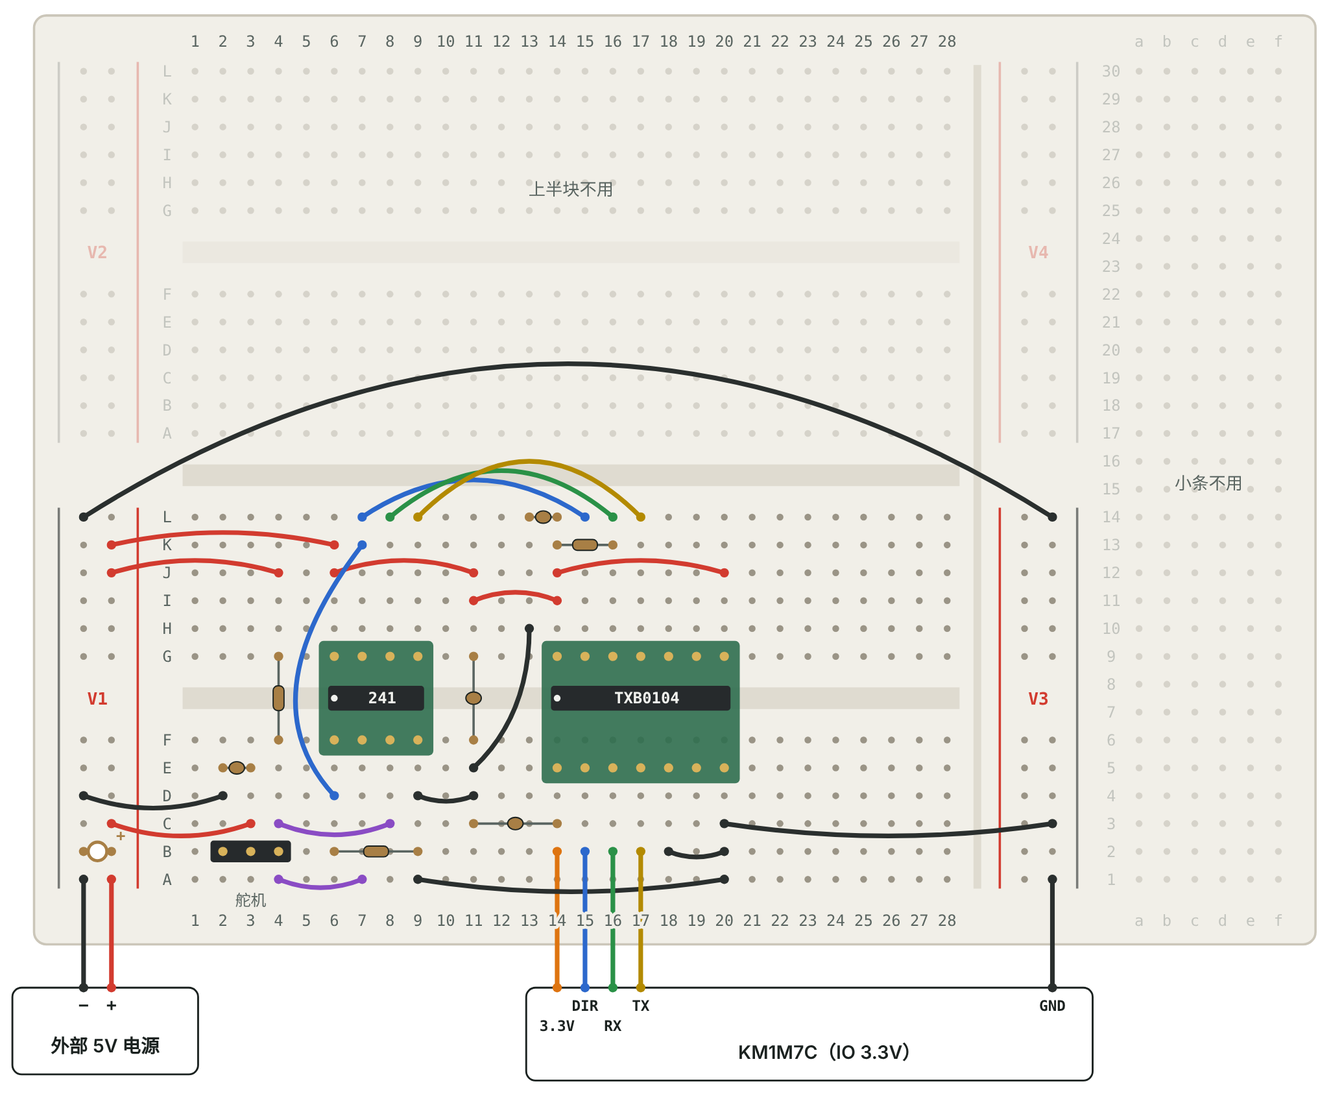
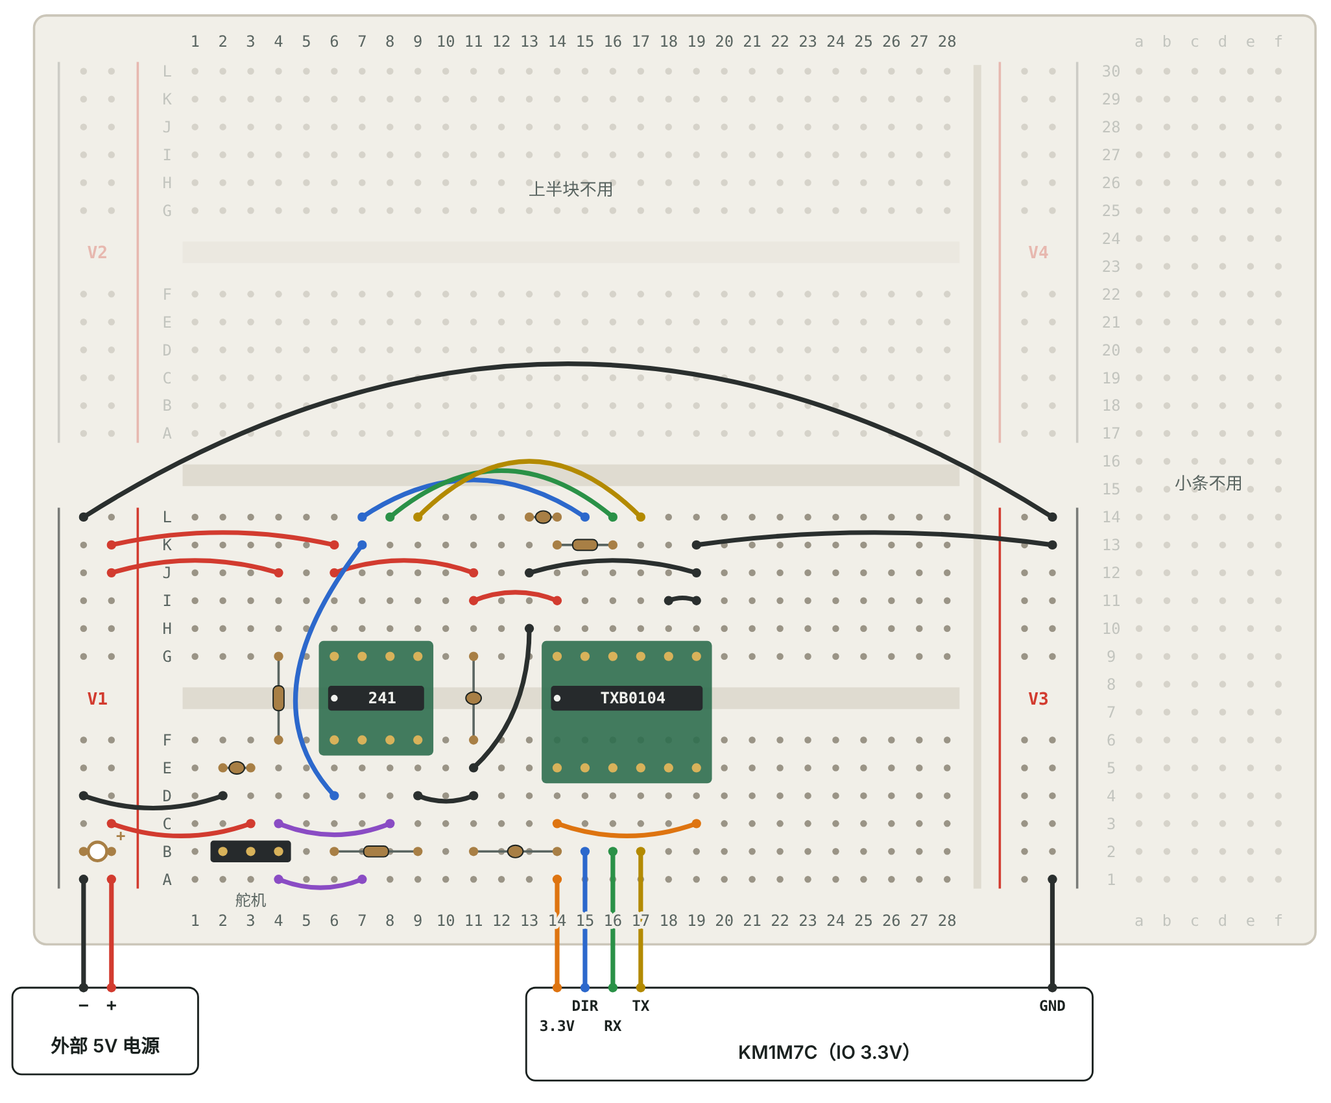
Rewire the TXB0104 as a 6-pin-per-row module
The level shifter is a breakout with rows VA A1 A2 A3 A4 OE and
VB B1 B2 B3 B4 GND (no NC pins). It now sits in columns 14-19 with VA/VB
in column 14, so channels 1-3 keep their columns. OE is tied to VA
(3.3V) in the lower row, module GND (upper row) goes to the GND hub and
V3-, unused B4 is grounded and A4 is left open. Schematic, column map,
BOM and the wiring checker's reference netlist are updated to match.

Claude-Session: https://claude.ai/code/session_01WiTXKFSppvefth2JxyFg7v

Changed region(s): [[0.3119, 0.7171, 0.7797, 0.8106], [0.4055, 0.4676, 0.7797, 0.5612], [0.4366, 0.5612, 0.5614, 0.7171]]

diff --git a/docs/breadboard/xl330_breadboard.html b/docs/breadboard/xl330_breadboard.html
@@ -159,7 +159,7 @@ ol.steps{margin:0;padding-left:1.4em;display:grid;gap:8px;max-width:72ch}
       <li><b>V1 = 外部 5V 和 GND，V3 − = MCU 的 GND（V3 + 不用）。</b>每条电源轨里，靠里（红线）那列是 +，靠外（黑线）那列是 −。先贴胶带标注。MCU 的 3.3V 直接插到第 14 列。</li>
       <li>MCU 板的 5V 引脚空着不接。同一条电源线上只能有一个电源。</li>
       <li>所有 GND 都要连在一起：外部电源的地和 MCU 的地靠 P1 那根长线接通。</li>
-      <li>两块转接板的 1 脚（圆点）都朝左下：在槽下方（A–F 一侧）、靠 V1 那头。241 的两排针插 G 行和 F 行；TXB0104 的转接板宽一些，两排针插 G 行和 E 行。E 和 F 同属槽下方那一组，电气上一样。</li>
+      <li>241 转接板的 1 脚（圆点）朝左下：在槽下方（A–F 一侧）、靠 V1 那头。241 的两排针插 G 行和 F 行；TXB0104 是每排 6 针的成品模块：VA…OE 那排插 E 行，VB…GND 那排插 G 行，VA、VB 在第 14 列（靠 V1 那头）。E 和 F 同属槽下方那一组，电气上一样。</li>
     </ol>
   </section>
 
@@ -188,18 +188,18 @@ ol.steps{margin:0;padding-left:1.4em;display:grid;gap:8px;max-width:72ch}
         <line class="ln s-dir" x1="280" y1="220" x2="400" y2="220"/><text class="t-dir" x="340" y="212" text-anchor="middle">DIR →</text>
         <rect class="bx" x="400" y="80" width="180" height="215" rx="6"/>
         <text class="ttl" x="490" y="104" text-anchor="middle">TXB0104</text>
-        <text x="432" y="122" text-anchor="middle">1 VCCA</text>
-        <text x="550" y="122" text-anchor="middle">VCCB 14</text>
-        <text x="408" y="144">3 A2</text><text x="408" y="184">4 A3</text><text x="408" y="224">2 A1</text><text x="408" y="259">5 A4</text>
-        <text x="572" y="144" text-anchor="end">B2 12</text><text x="572" y="184" text-anchor="end">B3 11</text><text x="572" y="224" text-anchor="end">B1 13</text><text x="572" y="259" text-anchor="end">B4 10</text>
-        <text x="432" y="286" text-anchor="middle">7 GND</text>
-        <text x="550" y="286" text-anchor="middle">OE 8</text>
+        <text x="432" y="122" text-anchor="middle">VA</text>
+        <text x="550" y="122" text-anchor="middle">VB</text>
+        <text x="408" y="144">A2</text><text x="408" y="184">A3</text><text x="408" y="224">A1</text><text x="408" y="259">A4</text>
+        <text x="572" y="144" text-anchor="end">B2</text><text x="572" y="184" text-anchor="end">B3</text><text x="572" y="224" text-anchor="end">B1</text><text x="572" y="259" text-anchor="end">B4</text>
+        <text x="432" y="286" text-anchor="middle">OE</text>
+        <text x="550" y="286" text-anchor="middle">GND</text>
         <line class="ln s-33" x1="430" y1="80" x2="430" y2="62"/><text class="t-33" x="430" y="55" text-anchor="middle">+3.3V</text>
         <line class="ln s-5" x1="550" y1="80" x2="550" y2="62"/><text class="t-5" x="550" y="55" text-anchor="middle">+5V</text>
-        <line class="ln s-g" x1="430" y1="295" x2="430" y2="313"/><text class="t-g" x="430" y="329" text-anchor="middle">GND</text>
-        <line class="ln s-5" x1="550" y1="295" x2="550" y2="313"/><text class="t-5" x="550" y="329" text-anchor="middle">+5V</text>
-        <line class="ln s-g" x1="386" y1="255" x2="400" y2="255"/><text class="t-g" x="381" y="259" text-anchor="end">GND</text>
-        <line class="ln s-mut" x1="580" y1="255" x2="600" y2="255"/><text x="604" y="259">空</text>
+        <line class="ln s-33" x1="430" y1="295" x2="430" y2="313"/><text class="t-33" x="430" y="329" text-anchor="middle">+3.3V</text>
+        <line class="ln s-g" x1="550" y1="295" x2="550" y2="313"/><text class="t-g" x="550" y="329" text-anchor="middle">GND</text>
+        <line class="ln s-mut" x1="386" y1="255" x2="400" y2="255"/><text x="381" y="259" text-anchor="end">空</text>
+        <line class="ln s-g" x1="580" y1="255" x2="600" y2="255"/><text class="t-g" x="604" y="259">GND</text>
         <line class="ln s-rx" x1="580" y1="140" x2="720" y2="140"/><text class="t-rx" x="692" y="132" text-anchor="middle">← RX</text>
         <line class="ln s-tx" x1="580" y1="180" x2="720" y2="180"/><text class="t-tx" x="650" y="172" text-anchor="middle">TX →</text>
         <line class="ln s-dir" x1="580" y1="220" x2="700" y2="220"/><text class="t-dir" x="615" y="212" text-anchor="middle">DIR →</text>
@@ -284,14 +284,13 @@ ol.steps{margin:0;padding-left:1.4em;display:grid;gap:8px;max-width:72ch}
         <tr><td>9</td><td>5 2A · TX</td><td>4 GND</td></tr>
         <tr class="grp"><td colspan="3">中转（第 11 列）</td></tr>
         <tr><td>11</td><td>5V</td><td>GND</td></tr>
-        <tr class="grp"><td colspan="3">TXB0104（第 14–20 列，针插 G 行和 E 行）</td></tr>
-        <tr><td>14</td><td>14 VCCB · 5V</td><td>1 VCCA · 3.3V（MCU 直接接）</td></tr>
-        <tr><td>15</td><td>13 B1 · DIR（接 241）</td><td>2 A1 · DIR（接 MCU）</td></tr>
-        <tr><td>16</td><td>12 B2 · RX（接 241）</td><td>3 A2 · RX（接 MCU）</td></tr>
-        <tr><td>17</td><td>11 B3 · TX（接 241）</td><td>4 A3 · TX（接 MCU）</td></tr>
-        <tr><td>18</td><td>10 B4 · 不接</td><td>5 A4 · 接 GND</td></tr>
-        <tr><td>19</td><td>9 NC</td><td>6 NC</td></tr>
-        <tr><td>20</td><td>8 OE · 接 5V</td><td>7 GND</td></tr>
+        <tr class="grp"><td colspan="3">TXB0104 模块（第 14–19 列，针插 G 行和 E 行）</td></tr>
+        <tr><td>14</td><td>VB · 5V</td><td>VA · 3.3V（MCU 直接接）</td></tr>
+        <tr><td>15</td><td>B1 · DIR（接 241）</td><td>A1 · DIR（接 MCU）</td></tr>
+        <tr><td>16</td><td>B2 · RX（接 241）</td><td>A2 · RX（接 MCU）</td></tr>
+        <tr><td>17</td><td>B3 · TX（接 241）</td><td>A3 · TX（接 MCU）</td></tr>
+        <tr><td>18</td><td>B4 · 接 GND</td><td>A4 · 不接</td></tr>
+        <tr><td>19</td><td>GND</td><td>OE · 接 VA（3.3V）</td></tr>
       </tbody>
     </table></div>
   </section>
@@ -323,7 +322,7 @@ ol.steps{margin:0;padding-left:1.4em;display:grid;gap:8px;max-width:72ch}
       <ol class="steps">
         <li>接完第 1 组、插芯片之前：万用表打到蜂鸣档，测 V1 + 对 V1 −，不能响。再测 V1 + 最上面和最下面两个孔，应该响，说明整条是通的；V1 −、V3 − 也一样测。</li>
         <li>外部电源通电，测 V1 + 对 V1 − 约 5V；插上 MCU 的 USB，测第 14 列槽下方对 V3 − 约 3.3V。确认后都断电。</li>
-        <li>接完芯片供电后再上电：TXB0104 第 1 脚约 3.3V、第 14 脚约 5V，74LVC2G241 第 8 脚约 5V。</li>
+        <li>接完芯片供电后再上电：TXB0104 模块的 VA 约 3.3V、VB 约 5V，74LVC2G241 第 8 脚约 5V。</li>
         <li>舵机线先别插，测第 3 列对第 2 列约 5V（舵机 VDD 对 GND）。</li>
         <li>上电顺序：先插 MCU 的 USB，再开外部 5V；断电顺序相反。顺序反了也不会损坏芯片，TXB0104 有一侧没电时输出会变成高阻。</li>
         <li>舵机上电时 LED 会闪一下，说明供电正常。</li>
@@ -333,7 +332,7 @@ ol.steps{margin:0;padding-left:1.4em;display:grid;gap:8px;max-width:72ch}
       <h2>物料清单</h2>
       <ul class="bom">
         <li><b>面包板（照片这款）</b><span>×1</span></li>
-        <li><b>TXB0104 + 14 脚转 DIP 转接板</b><span>×1</span></li>
+        <li><b>TXB0104 模块（每排 6 针）</b><span>×1</span></li>
         <li><b>SN74LVC2G241 + 8 脚转接板</b><span>×1</span></li>
         <li><b>电阻 10kΩ</b><span>×1</span></li>
         <li><b>电阻 100kΩ</b><span>×2</span></li>
@@ -425,16 +424,16 @@ ol.steps{margin:0;padding-left:1.4em;display:grid;gap:8px;max-width:72ch}
       ['C2','c','11G','11F','part','跨过槽，接在 5V 和 GND 中转之间的去耦电容','0.1µF'],
       ['R3','r','6B','9B','part','DIR 下拉（1OE ↔ GND）','100kΩ']]},
     {t:'TXB0104 供电',items:[
-      ['K1','k','插入 TXB0104 转接板','','','第 14–20 列，这块转接板宽一些：一排针插 G 行、一排插 E 行，1 脚（圆点）在 14E'],
-      ['P7','w','11I','14I','5','14 脚 VCCB = 5V'],
-      ['P8','w','14J','20J','5','8 脚 OE 接 5V，芯片一直工作'],
-      ['M1','w','MCU:3V3','14B','33','1 脚 VCCA = 3.3V，MCU 的 3.3V 直接插到这里','',{b:0}],
-      ['C1','c','11C','14C','part','VCCA 去耦电容（3.3V ↔ GND）','0.1µF'],
+      ['K1','k','插入 TXB0104 模块','','','第 14–19 列：VA A1 A2 A3 A4 OE 那排插 E 行，VB B1 B2 B3 B4 GND 那排插 G 行，VA 在 14E、VB 在 14G'],
+      ['P7','w','11I','14I','5','VB = 5V'],
+      ['P8','w','14C','19C','33','OE 接 VA（3.3V），芯片一直工作'],
+      ['M1','w','MCU:3V3','14A','33','VA = 3.3V，MCU 的 3.3V 直接插到这里','',{b:0}],
+      ['C1','c','11B','14B','part','VA 去耦电容（3.3V ↔ GND）','0.1µF'],
       ['P14','w','11E','13H','g','把 GND 引到第 13 列槽上方，给 C6 用','',{ctrl:[446,476]}],
-      ['C6','c','13L','14L','part','VCCB 去耦电容（5V ↔ GND），紧挨着 14 脚','0.1µF'],
-      ['P10','w','20C','V3N:C','g','7 脚 GND 接 V3 −'],
-      ['P11','w','9A','20A','g','241 的 GND 和 TXB0104 的 GND 连通'],
-      ['P12','w','18B','20B','g','5 脚 A4 不用，接 GND，不要悬空']]},
+      ['C6','c','13L','14L','part','VB 去耦电容（5V ↔ GND），紧挨着 VB','0.1µF'],
+      ['P10','w','19K','V3N:K','g','模块 GND 接 V3 −（MCU 的地）'],
+      ['P11','w','13J','19J','g','GND 中转连到模块的 GND'],
+      ['P12','w','18I','19I','g','B4 不用，接 GND；A4 空着']]},
     {t:'MCU ↔ TXB0104（3.3V 一侧，槽下方）',items:[
       ['S1','w','MCU:DIR','15B','dir','2 脚 A1，方向控制 DIR','',{b:0}],
       ['S2','w','16B','MCU:RX','rx','3 脚 A2，接收','',{b:0}],
@@ -444,7 +443,7 @@ ol.steps{margin:0;padding-left:1.4em;display:grid;gap:8px;max-width:72ch}
       ['S5','w','8L','16L','rx','241 的 1Y（6 脚）→ B2（12 脚），接收','',{ctrl:[(cx(8)+cx(16))/2,288]}],
       ['S6','w','17L','9L','tx','B3（11 脚）→ 241 的 2A（5 脚），发送','',{ctrl:[(cx(17)+cx(9))/2,276]}],
       ['S7','w','7K','6D','dir','2OE（7 脚）→ 1OE（1 脚）。2OE 高电平有效、1OE 低电平有效，所以 DIR = 1 发送，DIR = 0 接收','',{ctrl:[262,GROOVE]}],
-      ['R2','r','14K','16K','part','RX 上拉到 5V（VCCB ↔ B2）','100kΩ']]},
+      ['R2','r','14K','16K','part','RX 上拉到 5V（VB ↔ B2）','100kΩ']]},
     {t:'DATA 线',items:[
       ['P13','w','V1P:J','4J','5','把 5V 引到第 4 列槽上方，给 R1 用'],
       ['R1','r','4G','4F','part','跨过槽，DATA 上拉到 5V','10kΩ'],
@@ -519,7 +518,7 @@ ol.steps{margin:0;padding-left:1.4em;display:grid;gap:8px;max-width:72ch}
       return s;
     }
     h+=chip(6,4,'241',LROW.F);
-    h+=chip(14,7,'TXB0104',LROW.E);
+    h+=chip(14,6,'TXB0104',LROW.E);
     h+='<rect class="chipbody" x="'+(cx(2)-8)+'" y="557" width="'+(2*P+16)+'" height="14" rx="2"/>';
     for(let c=2;c<=4;c++) h+='<circle class="pin" cx="'+cx(c)+'" cy="564" r="3"/>';
     h+='<text x="'+cx(3)+'" y="599" text-anchor="middle">舵机</text>';

diff --git a/tools/check_wiring.py b/tools/check_wiring.py
@@ -31,15 +31,15 @@ PAGE = Path(__file__).resolve().parent.parent / "docs" / "breadboard" / "xl330_b
 # ---------------------------------------------------------------------------
 # 面包板上的固定摆放（和清单里的 K1、K2、K3 对应）
 # ---------------------------------------------------------------------------
-TXB_COL, TXB_UPPER_ROW, TXB_LOWER_ROW = 14, "G", "E"   # 第 14–20 列，针插 G 行和 E 行
+TXB_COL, TXB_UPPER_ROW, TXB_LOWER_ROW = 14, "G", "E"   # 模块，第 14–19 列，针插 G 行和 E 行
 G241_COL, G241_UPPER_ROW, G241_LOWER_ROW = 6, "G", "F"  # 第 6–9 列，针插 G 行和 F 行
 HEADER = {"2B": "XL330.1", "3B": "XL330.2", "4B": "XL330.3"}  # 舵机 1 号 GND，2 号 VDD，3 号 DATA
 
 # 转接板边缘可能盖住的孔：芯片所在列里，紧挨着针脚那一行（槽外侧）
 def keepout_holes():
     k = set()
-    for c in range(TXB_COL, TXB_COL + 7):
-        k |= {f"{c}H", f"{c}D", f"{c}F"}       # F 在两排针中间，被转接板盖住
+    for c in range(TXB_COL, TXB_COL + 6):
+        k |= {f"{c}H", f"{c}D", f"{c}F"}       # F 在两排针中间，被模块盖住
     for c in range(G241_COL, G241_COL + 4):
         k |= {f"{c}H", f"{c}E"}
     return k
@@ -49,18 +49,18 @@ def keepout_holes():
 # 引脚写法：芯片.脚号，MCU.名字，EXT.+/-，XL330.脚号
 # ---------------------------------------------------------------------------
 REFERENCE = {
-    "5V":      {"EXT.+", "TXB.14", "TXB.8", "241.8", "XL330.2"},
-    "3V3":     {"MCU.3V3", "TXB.1"},
-    "GND":     {"EXT.-", "MCU.GND", "TXB.7", "TXB.5", "241.4", "XL330.1"},
-    "DIR_3V3": {"MCU.DIR", "TXB.2"},
-    "RX_3V3":  {"MCU.RX", "TXB.3"},
-    "TX_3V3":  {"MCU.TX", "TXB.4"},
-    "DIR_5V":  {"TXB.13", "241.7", "241.1"},
-    "RX_5V":   {"TXB.12", "241.6"},
-    "TX_5V":   {"TXB.11", "241.5"},
+    "5V":      {"EXT.+", "TXB.VB", "241.8", "XL330.2"},
+    "3V3":     {"MCU.3V3", "TXB.VA", "TXB.OE"},
+    "GND":     {"EXT.-", "MCU.GND", "TXB.GND", "TXB.B4", "241.4", "XL330.1"},
+    "DIR_3V3": {"MCU.DIR", "TXB.A1"},
+    "RX_3V3":  {"MCU.RX", "TXB.A2"},
+    "TX_3V3":  {"MCU.TX", "TXB.A3"},
+    "DIR_5V":  {"TXB.B1", "241.7", "241.1"},
+    "RX_5V":   {"TXB.B2", "241.6"},
+    "TX_5V":   {"TXB.B3", "241.5"},
     "DATA":    {"241.2", "241.3", "XL330.3"},
 }
-UNUSED = {"TXB.10", "TXB.9", "TXB.6"}          # B4、两个 NC：不能接任何东西
+UNUSED = {"TXB.A4"}                            # 不用的 A4：不能接任何东西
 PARTS = {                                       # 两只脚跨在哪两个网络上
     "R1": ("DATA", "5V"),
     "R2": ("RX_5V", "5V"),
@@ -137,9 +137,11 @@ def node_of(pos, errors):
 def chip_pins():
     """芯片和排针的每只脚插在哪个孔。"""
     pins = {}
-    for i in range(7):                       # TXB0104：1–7 在下排从左到右，8–14 在上排从右到左
-        pins[f"TXB.{1 + i}"] = f"{TXB_COL + i}{TXB_LOWER_ROW}"
-        pins[f"TXB.{14 - i}"] = f"{TXB_COL + i}{TXB_UPPER_ROW}"
+    lower = ["VA", "A1", "A2", "A3", "A4", "OE"]   # TXB0104 模块：两排从左到右
+    upper = ["VB", "B1", "B2", "B3", "B4", "GND"]
+    for i in range(6):
+        pins[f"TXB.{lower[i]}"] = f"{TXB_COL + i}{TXB_LOWER_ROW}"
+        pins[f"TXB.{upper[i]}"] = f"{TXB_COL + i}{TXB_UPPER_ROW}"
     for i in range(4):                       # 74LVC2G241：1–4 下排，5–8 上排
         pins[f"241.{1 + i}"] = f"{G241_COL + i}{G241_LOWER_ROW}"
         pins[f"241.{8 - i}"] = f"{G241_COL + i}{G241_UPPER_ROW}"
@@ -173,7 +175,7 @@ def check(stages, verbose=True):
 
     # K 步骤里写的列号要和这里的摆放一致
     ktext = {it[0]: it[2] + " " + it[5] for it in items_of(stages) if it[1] == "k"}
-    expect = {"K1": f"第 {TXB_COL}–{TXB_COL + 6} 列", "K2": f"第 {G241_COL}–{G241_COL + 3} 列",
+    expect = {"K1": f"第 {TXB_COL}–{TXB_COL + 5} 列", "K2": f"第 {G241_COL}–{G241_COL + 3} 列",
               "K3": "2B、3B、4B"}
     for k, frag in expect.items():
         if frag not in ktext.get(k, ""):
@@ -281,9 +283,9 @@ def selftest():
         ("R1 插错一列（一头悬空）", lambda it: it[0] == "R1" and not it.__setitem__(2, "2G")),
         ("电解电容 C4 正负接反", lambda it: it[0] == "C4" and not (it.__setitem__(2, "V1N:B"), it.__setitem__(3, "V1P:B"))),
         ("两样东西插进同一个孔", lambda it: it[0] == "P12" and not it.__setitem__(2, "16B")),
-        ("5V 和 3.3V 短路（3.3V 插到了槽上方）", lambda it: it[0] == "M1" and not it.__setitem__(3, "14L")),
-        ("A4 的接地线插到了 NC 那一列", lambda it: it[0] == "P12" and not it.__setitem__(2, "19B")),
-        ("OE 没接 5V（悬空）", lambda it: it[0] == "P8" and not it.__setitem__(3, "22J")),
+        ("5V 和 3.3V 短路（3.3V 插到了槽上方）", lambda it: it[0] == "M1" and not it.__setitem__(3, "14J")),
+        ("B4 的接地线插到了 A4 那一列", lambda it: it[0] == "P12" and not it.__setitem__(2, "18B")),
+        ("OE 没接上（悬空）", lambda it: it[0] == "P8" and not it.__setitem__(3, "22C")),
     ]
     failed = 0
     for name, fn in cases:

diff --git a/docs/breadboard/README.md b/docs/breadboard/README.md
@@ -2,7 +2,7 @@
 
 信号链：**PC —USB— KM1M7C（3.3V IO）↔ TXB0104（3.3V ↔ 5V）↔ 74LVC2G241（5V）↔ XL330**
 
-- TXB0104 把 MCU 的 3.3V 信号转成 5V：A 侧（VCCA = 3.3V）接 MCU，B 侧（VCCB = 5V）接 241。
+- TXB0104 把 MCU 的 3.3V 信号转成 5V：A 侧（VA = 3.3V）接 MCU，B 侧（VB = 5V）接 241。
 - 74LVC2G241 把 TX、RX 合成一根 DATA 线。DIR = 1 发送（2Y 打开），DIR = 0 接收（1Y 打开）。
 - 5V 一侧（241、TXB0104 的 B 侧、舵机）全部由外部 5V 电源供电；MCU 只提供 3.3V 和 GND，它的 5V 引脚不用。
 - 交互版（逐根打勾、点一行高亮对应的线）：下载 [`xl330_breadboard.html`](xl330_breadboard.html) 后用浏览器打开。
@@ -20,7 +20,7 @@
 2. **V1 = 外部 5V 和 GND，V3 − = MCU 的 GND（V3 + 不用）。** 每条电源轨里，靠里（红线）那列是 +，靠外（黑线）那列是 −。先贴胶带标注。MCU 的 3.3V 直接插到第 14 列。
 3. MCU 板的 5V 引脚空着不接。同一条电源线上只能有一个电源。
 4. 所有 GND 都要连在一起：外部电源的地和 MCU 的地靠 P1 那根长线接通。
-5. 两块转接板的 1 脚（圆点）都朝左下：在槽下方（A–F 一侧）、靠 V1 那头。241 的两排针插 G 行和 F 行；TXB0104 的转接板宽一些，两排针插 G 行和 E 行。E 和 F 同属槽下方那一组，电气上一样。
+5. 241 转接板的 1 脚（圆点）朝左下：在槽下方（A–F 一侧）、靠 V1 那头。241 的两排针插 G 行和 F 行；TXB0104 是每排 6 针的成品模块：VA…OE 那排插 E 行，VB…GND 那排插 G 行，VA、VB 在第 14 列（靠 V1 那头）。E 和 F 同属槽下方那一组，电气上一样。
 
 ## 电路图
 
@@ -48,13 +48,12 @@
 | 8 | 241 6 1Y · RX | 241 3 2Y · DATA |
 | 9 | 241 5 2A · TX | 241 4 GND |
 | 11 | 5V 中转 | GND 中转 |
-| 14 | TXB 14 VCCB · 5V（TXB 针插 G、E 行） | TXB 1 VCCA · 3.3V（MCU 直接接） |
-| 15 | TXB 13 B1 · DIR（接 241） | TXB 2 A1 · DIR（接 MCU） |
-| 16 | TXB 12 B2 · RX（接 241） | TXB 3 A2 · RX（接 MCU） |
-| 17 | TXB 11 B3 · TX（接 241） | TXB 4 A3 · TX（接 MCU） |
-| 18 | TXB 10 B4 · 不接 | TXB 5 A4 · 接 GND |
-| 19 | TXB 9 NC | TXB 6 NC |
-| 20 | TXB 8 OE · 接 5V | TXB 7 GND |
+| 14 | TXB VB · 5V（模块针插 G、E 行） | TXB VA · 3.3V（MCU 直接接） |
+| 15 | TXB B1 · DIR（接 241） | TXB A1 · DIR（接 MCU） |
+| 16 | TXB B2 · RX（接 241） | TXB A2 · RX（接 MCU） |
+| 17 | TXB B3 · TX（接 241） | TXB A3 · TX（接 MCU） |
+| 18 | TXB B4 · 接 GND | TXB A4 · 不接 |
+| 19 | TXB GND | TXB OE · 接 VA（3.3V） |
 
 ## 接线清单
 
@@ -81,16 +80,16 @@
 | C2 | 0.1µF：11G ↔ 11F | 元件 | 跨过槽，接在 5V 和 GND 中转之间的去耦电容 |
 | R3 | 100kΩ：6B ↔ 9B | 元件 | DIR 下拉（1OE ↔ GND） |
 | **4** | **TXB0104 供电** | |  |
-| K1 | 插入 TXB0104 转接板 |  | 第 14–20 列，这块转接板宽一些：一排针插 G 行、一排插 E 行，1 脚（圆点）在 14E |
-| P7 | 11I → 14I | 红 | 14 脚 VCCB = 5V |
-| P8 | 14J → 20J | 红 | 8 脚 OE 接 5V，芯片一直工作 |
-| M1 | MCU 3.3V → 14B | 橙 | 1 脚 VCCA = 3.3V，MCU 的 3.3V 直接插到这里 |
-| C1 | 0.1µF：11C ↔ 14C | 元件 | VCCA 去耦电容（3.3V ↔ GND） |
+| K1 | 插入 TXB0104 模块 |  | 第 14–19 列：VA A1 A2 A3 A4 OE 那排插 E 行，VB B1 B2 B3 B4 GND 那排插 G 行，VA 在 14E、VB 在 14G |
+| P7 | 11I → 14I | 红 | VB = 5V |
+| P8 | 14C → 19C | 橙 | OE 接 VA（3.3V），芯片一直工作 |
+| M1 | MCU 3.3V → 14A | 橙 | VA = 3.3V，MCU 的 3.3V 直接插到这里 |
+| C1 | 0.1µF：11B ↔ 14B | 元件 | VA 去耦电容（3.3V ↔ GND） |
 | P14 | 11E → 13H | 黑 | 把 GND 引到第 13 列槽上方，给 C6 用 |
-| C6 | 0.1µF：13L ↔ 14L | 元件 | VCCB 去耦电容（5V ↔ GND），紧挨着 14 脚 |
-| P10 | 20C → V3 − | 黑 | 7 脚 GND 接 V3 − |
-| P11 | 9A → 20A | 黑 | 241 的 GND 和 TXB0104 的 GND 连通 |
-| P12 | 18B → 20B | 黑 | 5 脚 A4 不用，接 GND，不要悬空 |
+| C6 | 0.1µF：13L ↔ 14L | 元件 | VB 去耦电容（5V ↔ GND），紧挨着 VB |
+| P10 | 19K → V3 − | 黑 | 模块 GND 接 V3 −（MCU 的地） |
+| P11 | 13J → 19J | 黑 | GND 中转连到模块的 GND |
+| P12 | 18I → 19I | 黑 | B4 不用，接 GND；A4 空着 |
 | **5** | **MCU ↔ TXB0104（3.3V 一侧，槽下方）** | |  |
 | S1 | MCU GPIO → 15B | 蓝 | 2 脚 A1，方向控制 DIR |
 | S2 | 16B → MCU RX | 绿 | 3 脚 A2，接收 |
@@ -100,7 +99,7 @@
 | S5 | 8L → 16L | 绿 | 241 的 1Y（6 脚）→ B2（12 脚），接收 |
 | S6 | 17L → 9L | 黄 | B3（11 脚）→ 241 的 2A（5 脚），发送 |
 | S7 | 7K → 6D | 蓝 | 2OE（7 脚）→ 1OE（1 脚）。2OE 高电平有效、1OE 低电平有效，所以 DIR = 1 发送，DIR = 0 接收 |
-| R2 | 100kΩ：14K ↔ 16K | 元件 | RX 上拉到 5V（VCCB ↔ B2） |
+| R2 | 100kΩ：14K ↔ 16K | 元件 | RX 上拉到 5V（VB ↔ B2） |
 | **7** | **DATA 线** | |  |
 | P13 | V1 + → 4J | 红 | 把 5V 引到第 4 列槽上方，给 R1 用 |
 | R1 | 10kΩ：4G ↔ 4F | 元件 | 跨过槽，DATA 上拉到 5V |
@@ -120,7 +119,7 @@ python tools/check_wiring.py
 - 每个网络的引脚都连在一起（没有漏接）。
 - 不同网络之间没有连在一起（没有短路）。
 - 电阻、电容两只脚跨在正确的两个网络上，电解电容的正负没有接反。
-- NC、B4 这些不用的引脚什么都没接。
+- 不用的 A4 什么都没接。
 - 没有两样东西插进同一个孔，也没有导线一头悬空。
 - 没有用到紧挨着转接板、可能被盖住的孔。
 
@@ -132,7 +131,7 @@ python tools/check_wiring.py
 
 1. 接完第 1 组、插芯片之前：万用表打到蜂鸣档，测 V1 + 对 V1 −，不能响。再测 V1 + 最上面和最下面两个孔，应该响，说明整条是通的；V1 −、V3 − 也一样测。
 2. 外部电源通电，测 V1 + 对 V1 − 约 5V；插上 MCU 的 USB，测第 14 列槽下方对 V3 − 约 3.3V。确认后都断电。
-3. 接完芯片供电后再上电：TXB0104 第 1 脚约 3.3V、第 14 脚约 5V，74LVC2G241 第 8 脚约 5V。
+3. 接完芯片供电后再上电：TXB0104 模块的 VA 约 3.3V、VB 约 5V，74LVC2G241 第 8 脚约 5V。
 4. 舵机线先别插，测第 3 列对第 2 列约 5V（舵机 VDD 对 GND）。
 5. 上电顺序：先插 MCU 的 USB，再开外部 5V；断电顺序相反。顺序反了也不会损坏芯片，TXB0104 有一侧没电时输出会变成高阻。
 6. 舵机上电时 LED 会闪一下，说明供电正常。
@@ -178,7 +177,7 @@ TXB0104 要求接在它引脚上的上下拉电阻不小于 50kΩ，所以 R2、
 | 物料 | 数量 |
 |---|---|
 | 面包板（照片这款） | 1 |
-| TXB0104 + 14 脚转 DIP 转接板 | 1 |
+| TXB0104 模块（每排 6 针） | 1 |
 | SN74LVC2G241 + 8 脚转接板（DCU = VSSOP 0.5mm，DCT = SM8 0.65mm，按后缀买） | 1 |
 | 电阻 10kΩ / 100kΩ | 1 / 2 |
 | 瓷片电容 0.1µF | 4 |
